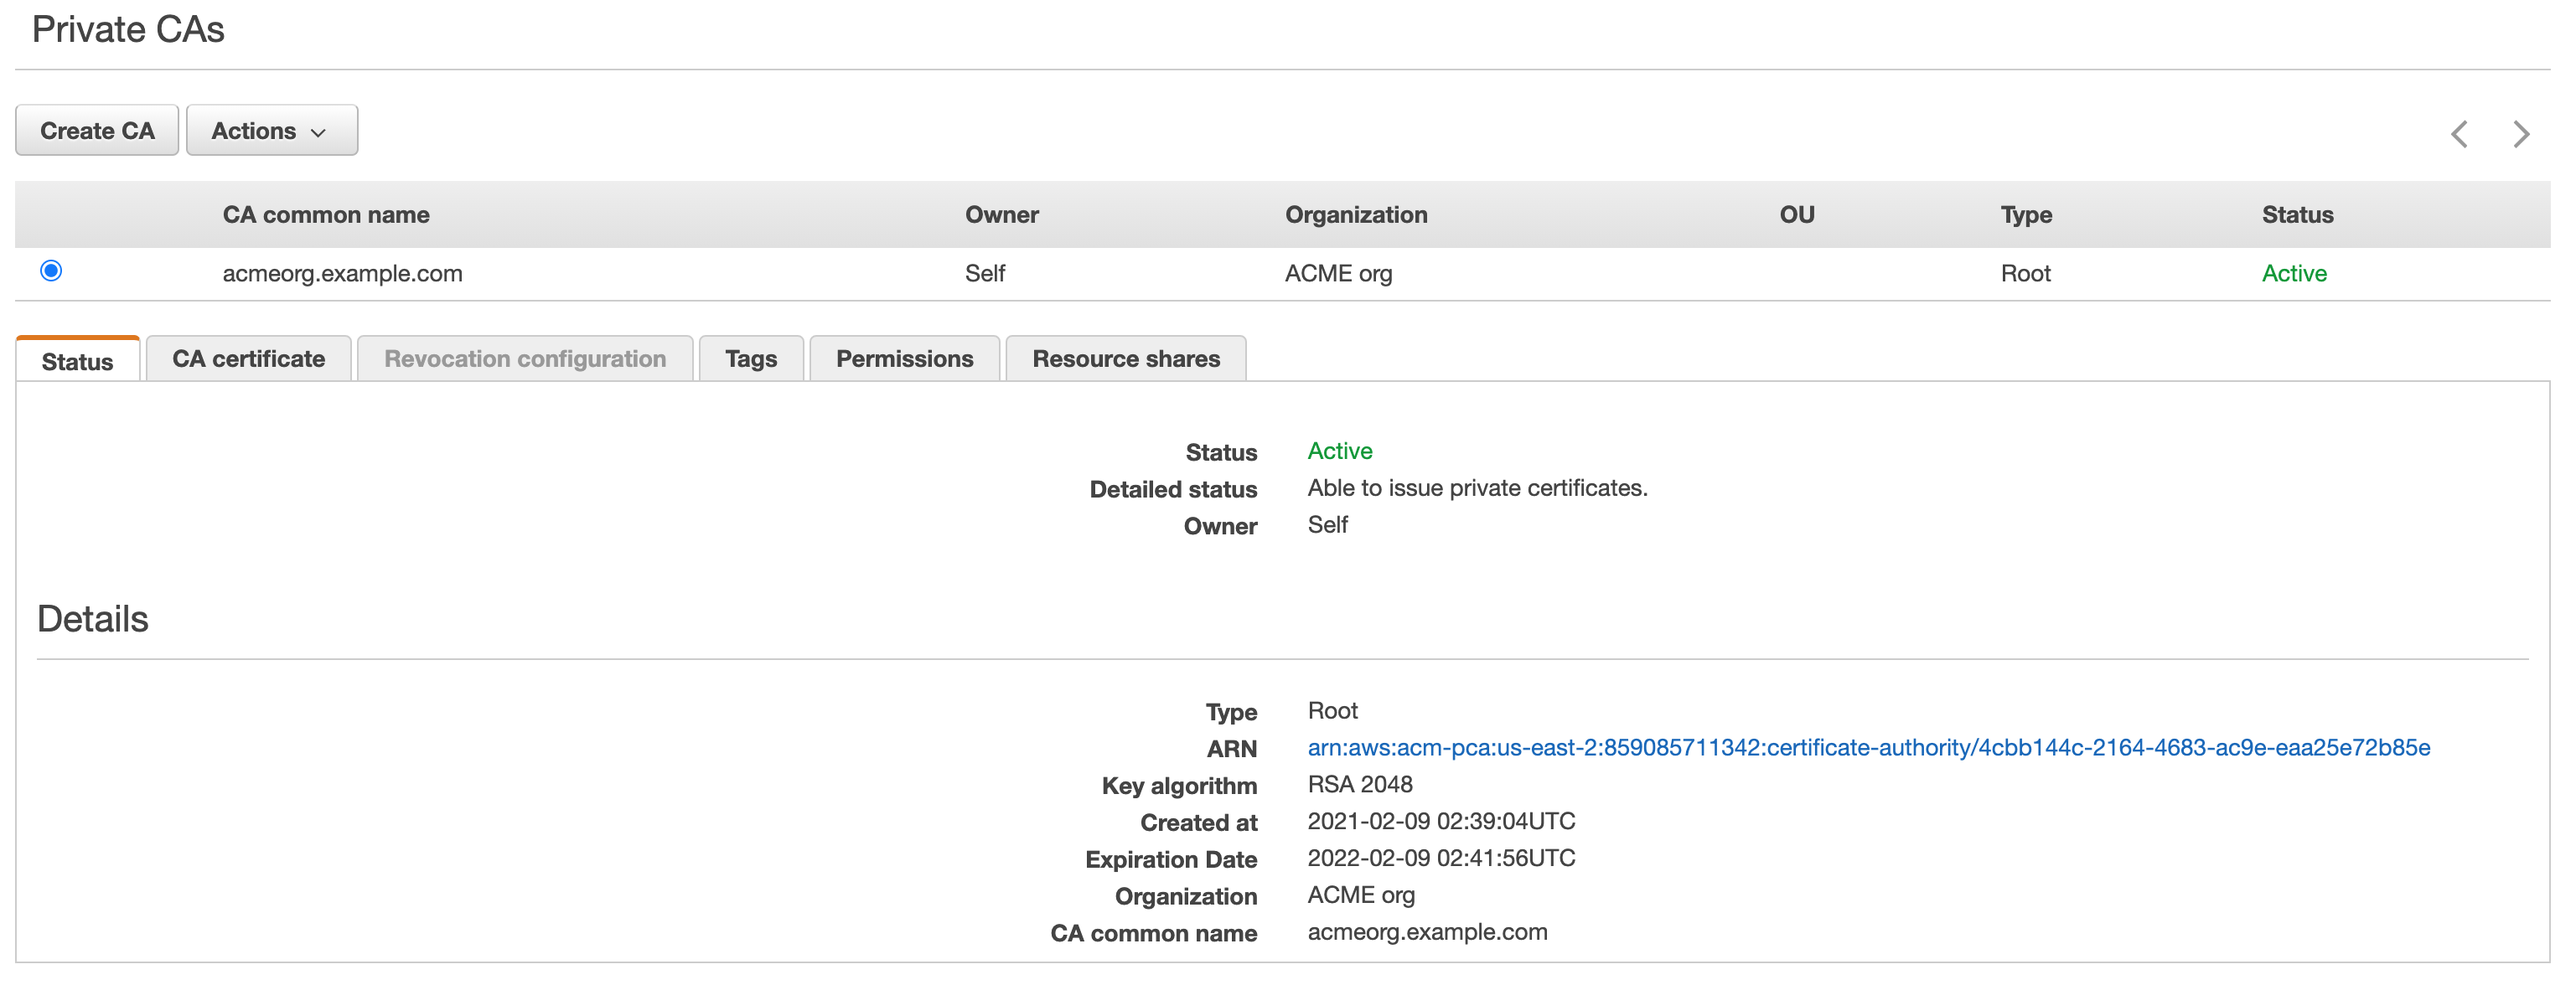
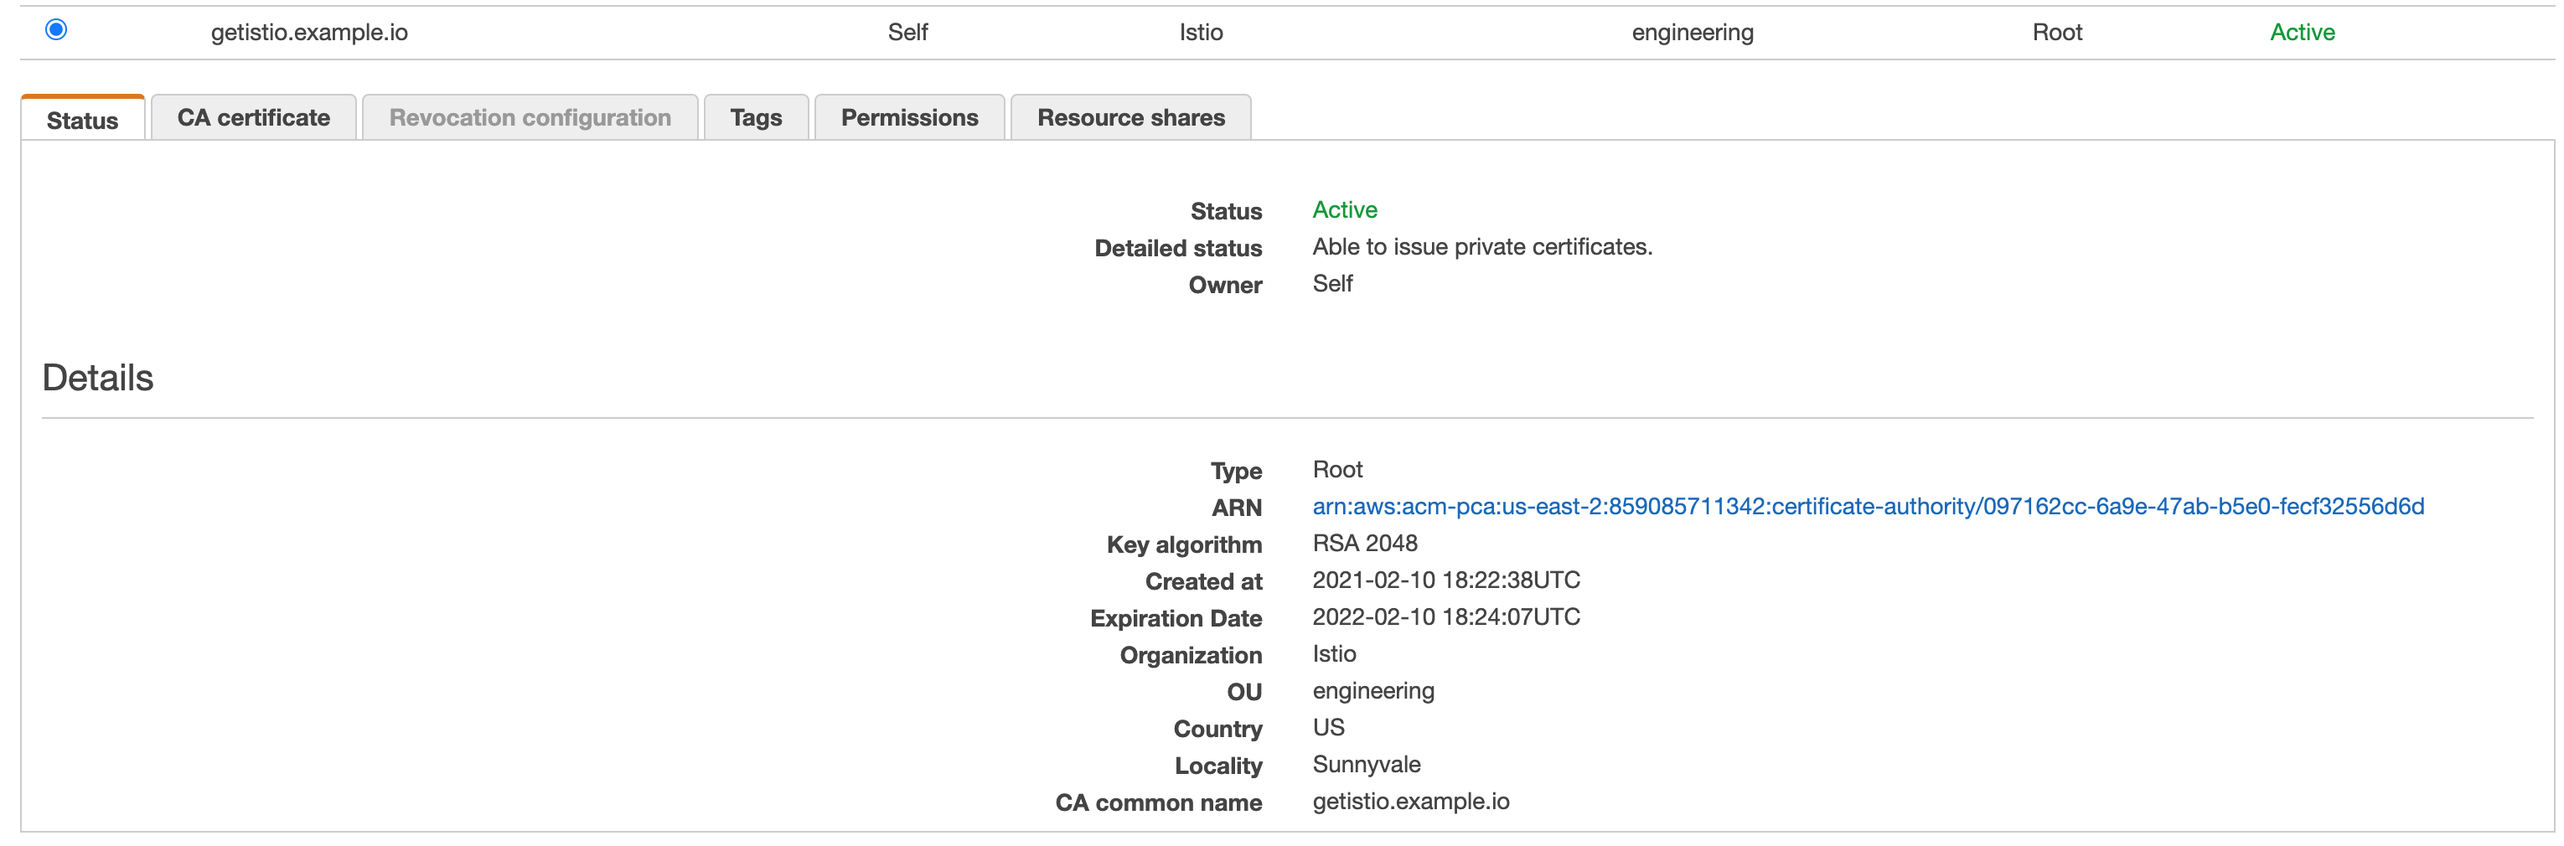
Simplify CA YAML, add CA setup into a collapsible section

diff --git a/content/en/istio-ca-certs-integrations/acmpca-integration/_index.md b/content/en/istio-ca-certs-integrations/acmpca-integration/_index.md
@@ -19,8 +19,10 @@ To follow this tutorial, you will need an AWS account and a Kubernetes cluster w
 - A CA set up in AWS ACM Private CA and the Amazon Resource Name (ARN) of the CA
 - AWS credentials with the `AWSCertificateManagerPrivateCAFullAccess` and `AWSCertificateManagerFullAccess` policy attached. Refer to the [Configuring  the AWS CLI](https://docs.aws.amazon.com/cli/latest/userguide/cli-chap-configure.html) documentation on how to set up the credentials.
 
-
 You can follow the [prerequisites](/istio-in-practice/prerequisites) for instructions on how to install and setup Istio.
+
+<details>
+<summary><strong>Click here, if you need to set up ACM Private CA</strong></summary>
 
 ### Setting up ACM Private CA
 
@@ -30,9 +32,11 @@ The first thing we need is to set up the ACM Private CA in AWS Console. Log in t
 1. Click **Get started** button under Private certificate authority.
 1. Select the **Root CA** on the certificate authority (CA) type step, and click **Next**.
 1. Configure the CA name (you can use your values here):
-    1. For **Organization (O)**, enter **ACME org**.
-    1. You can skip the Organization unit, Country name, State, and Locality name, as they are optional.
-    1. For **Common name (CN)**, enter **acmeorg.example.com**.
+    1. For **Organization (O)**, enter **Istio**.
+    1. For **Organization unit (OU)**, enter **engineering**.
+    1. For **Country name (C)**, select  **United States (US)**.
+    1. For **Locality name**, enter **Sunnyvale**.
+    1. For **CA Common name (CN)**, enter **getistio.example.io**.
     1. Click **Next**.
 1. Configure the CA key size and algorithm:
     1. Click **Advanced** to expand the options.
@@ -47,7 +51,8 @@ The first thing we need is to set up the ACM Private CA in AWS Console. Log in t
 Before ACM Private CA can start issuing certificates, you need to activate by installing a CA certificate. 
 
 1. From the "Private CAs" page, click the **Install a CA certificate to active your CA** link.
-1. Change the validity to **364 days**.
+1. Change the validity to **365 days**.
+1. Select **SHA256WITHRSA** from the Signature algorithm list.
 1. Click **Next**.
 1. Click the **Confirm and install** button to generate, and install the root CA certificate.
 
@@ -59,6 +64,8 @@ The figure below shows the Private CA page.  Note that yours might look differen
 
 Ensure you have AWS credentials set up with the `AWSCertificateManagerPrivateCAFullAccess` and `AWSCertificateManagerFullAccess` policy attached on a machine you're accessing the Kubernetes cluster from. Alternatively, if you installed GetIstio on AWS Cloud Shell, the credentials are already set up.
 
+</details>
+
 ## Creating ACM configuration
 
 We will use a YAML configuration to configure ACM Private CA. Use the YAML below as a template, and enter the ACM Private CA information from the AWS console:
@@ -67,42 +74,30 @@ We will use a YAML configuration to configure ACM Private CA. Use the YAML below
 providerName: "aws"
 providerConfig:
   aws:
-    # You can get the ARN value from the Details page of your private certificate authority 
-    signingCAArn: "arn:aws:acm-pca:us-east-2:859085711342:certificate-authority/4cbb144c-2164-4683-ac9e-eaa25e72b85e"
-    # template to use for the CSR.
+    # This will hold the ARN value from the Details page of ACM Private CA 
+    signingCAArn: "  arn:aws:acm-pca:us-east-2:859085711342:certificate-authority/097162cc-6a9e-47ab-b5e0-fecf32556d6d"
     templateArn: "arn:aws:acm-pca:::template/SubordinateCACertificate_PathLen0/V1"
-    # Optional field. If left blank would default to SHA256WITHRSA
     signingAlgorithm: SHA256WITHRSA
 certificateParameters:
   secretOptions:
-    # Namespace where 'cacerts' Kubernetes secret is created on your target cluster
-    istioCANamespace: "istio-system"
-    # SecretFilePath is the file path used to store the Kubernetes Secret in yaml format
-    secretFilePath:
-    # Force flag when enabled forcefully deletes the `cacerts` secret
-    # in istioNamespace, and creates a new one.
-    force: true
+    istioCANamespace: "istio-system" # namespace where `cacerts` secrets live
+    force: true # force delete the `cacerts` secret and replace it with this new one
   caOptions:
-    # ValidityDays represents the number of validity days before the CA expires.
-    # Replace with the value selected during CAS creation
-    validityDays: 364
-    # KeyLength is the length(bits) of Key to be created
-    keyLength: 2048
-    # This is x509.CertificateRequest. Only a few fields are shown below
-    certSigningRequestParams:
+    validityDays: 365 # validity days before the CA expires
+    keyLength: 2048 # length (bits) of Key to be created
+    certSigningRequestParams: # x509.CertificateRequest; most fields omitted
       subject:
-        commonname: "acmeorg.example.com"
+        commonname: "getistio.example.io"
+        country: 
+          - "US"
+        locality:
+          - "Sunnyvale"
         organization:
-          - "ACME org"
-        # You can also enter any optional fields if you defined them in CAS
-        # organizationunit:
-        #   - "engineering"
-        # country:
-        #   - "US"
-        # locality:
-        #   - "Sunnyvale"
+          - "Istio"
+        organizationunit:
+          - "engineering"
       emailaddresses:
-        - "hello@example.com"
+        - "youremail@example.io"
 ```
 
 Save the above file to `aws-acm-config.yaml` and use `gen-ca` command to create the `cacert`:
@@ -168,11 +163,11 @@ Certificate:
         Serial Number:
             94:d9:65:d0:b0:42:ac:31:70:f8:9f:84:02:6b:b1:d7:8d:2e:cb:c8
         Signature Algorithm: sha256WithRSAEncryption
-        Issuer: O = ACME org, CN = acmeorg.example.com
+        Issuer: C = US, L = Sunnyvale, O = Istio, OU = engineering, CN = getistio.example.io
         Validity
             Not Before: Feb  8 22:23:59 2021 GMT
             Not After : Jan 27 22:23:59 2031 GMT
-        Subject: O = ACME org, CN = acmeorg.example.com
+        Subject: C = US, L = Sunnyvale, O = Istio, OU = engineering, CN = getistio.example.io
         Subject Public Key Info:
             Public Key Algorithm: rsaEncryption
                 RSA Public-Key: (2048 bit)

diff --git a/content/en/istio-ca-certs-integrations/gcp-cas-integration/_index.md b/content/en/istio-ca-certs-integrations/gcp-cas-integration/_index.md
@@ -19,8 +19,10 @@ To follow this tutorial, you will need a Google Cloud Platform account and a Kub
 - A CA set up in GCP CAS
 - GCP credentials file and the environment variable `GOOGLE_APPLICATION_CREDENTIALS` pointed to the crednetials to get the CSR with CA set signed by the GCP CAS. Refer to the [Getting started with authentication](https://cloud.google.com/docs/authentication/getting-started) documentation on how to setup the GCP credentials.
 
-
 You can follow the [prerequisites](/istio-in-practice/prerequisites) for instructions on how to install and setup Istio.
+
+<details>
+<summary><strong>Click here, if you need to set up GCP CA</strong></summary>
 
 ### Setting up CAS
 
@@ -29,13 +31,18 @@ The first thing we need is to set up the CAS in Google Cloud Console. Log in to 
 1. From the navigation menu, select Security → Certificate Authority Service.
 1. Click the **Create CA** button.
 1. Configure the CA type:
+    1. Select **Root CA**.
+    1. Select **365 days** for validity.
+    1. Select the **Enterprise** tier**.
     1. Select the CAS's location from the **Location** list (e.g. `us-east1`).
     1. Click **Next**.
 1. Configure the CA subject name (you can use your values here):
-    1. For **Organization (O)**, enter **ACME org**.
-    1. You can skip the Organization unit, Country name, State, and Locality name, as they are optional.
-    1. For **CA Common name (CN)**, enter **acmeorg.example.com**.
-    1. For **Resource ID**, enter **acmeorg-example-com**.
+    1. For **Organization (O)**, enter **Istio**.
+    1. For **Organization unit (OU)**, enter **engineering**.
+    1. For **Country name (C)**, enter **US**.
+    1. For **Locality name**, enter **Sunnyvale**.
+    1. For **CA Common name (CN)**, enter **getistio.example.io**.
+    1. For **Resource ID**, enter **getistio-example-io**.
     1. Click **Next**.
 1. Configure the CA key size and algorithm:
     1. Select **RSA PKCS1 2048 (SHA 256)**.
@@ -49,6 +56,7 @@ The figure below shows the summary page. Note that your page might look differen
 ### Configure GCP credentials
 
 Ensure you have GCP credentials set up (e.g.`GOOGLE_APPLICATION_CREDENTIALS` environment variable has to point to the credentials) on a machine you're accessing the Kubernetes cluster from. Alternatively, if you installed GetIstio on Google Cloud Shell, the credentials are already set up.
+</details>
 
 ## Creating CAS configuration
 
@@ -58,40 +66,29 @@ We will use a YAML configuration to configure CAS and CSR creation. Use the YAML
 providerName: "gcp"
 providerConfig:
   gcp:
-    # Replace with the resource name of the certificate authority you created on GCP
-    # You can get the resource name by selecting the View option in the Actions menu on GCP
-    casCAName: "projects/tetrate-io-istio/locations/us-west1/certificateAuthorities/acmeorg-example-com"
+    # This will hold the full CA name for the certificate authority you created on GCP
+    casCAName: "projects/tetrate-io-istio/locations/us-west1/certificateAuthorities/getistio-example-com"
 
 certificateParameters:
   secretOptions:
-    # Namespace where 'cacerts' Kubernetes secret is created on your target cluster
-    istioCANamespace: "istio-system"
-    # SecretFilePath is the file path used to store the Kubernetes Secret in yaml format
-    secretFilePath:
-    # Force flag when enabled forcefully deletes the `cacerts` secret
-    # in istioNamespace, and creates a new one.
-    force: true
+    istioCANamespace: "istio-system" # namespace where `cacerts` secrets live
+    force: true # force delete the `cacerts` secret and replace it with this new one
   caOptions:
-    # ValidityDays represents the number of validity days before the CA expires.
-    # Replace with the value selected during CAS creation
-    validityDays: 3640
-    # KeyLength is the length(bits) of Key to be created
-    keyLength: 2048
-    # This is x509.CertificateRequest. Only a few fields are shown below
-    certSigningRequestParams:
+    validityDays: 365 # validity days before the CA expires
+    keyLength: 2048 # length (bits) of Key to be created
+    certSigningRequestParams: # x509.CertificateRequest; most fields omitted
       subject:
-        commonname: "acmeorg.example.com"
+        commonname: "getistio.example.io"
+        country: 
+          - "US"
+        locality:
+          - "Sunnyvale"
         organization:
-          - "ACME org"
-        # You can also enter any optional fields if you defined them in CAS
-        # organizationunit:
-        #   - "engineering"
-        # country:
-        #   - "US"
-        # locality:
-        #   - "Sunnyvale"
+          - "Istio"
+        organizationunit:
+          - "engineering"
       emailaddresses:
-        - "hello@example.com"
+        - "youremail@example.io"
 ```
 
 Save the above file to `gcp-cas-config.yaml` and use `gen-ca` command to create the `cacert`:
@@ -155,16 +152,16 @@ Certificate:
     Data:
         Version: 3 (0x2)
         Serial Number:
-            a6:fd:46:64:ce:8b:21:28:6f:4b:98:7c:1c:8e:dd:88
-    Signature Algorithm: sha256WithRSAEncryption
-        Issuer: O=ACME org, CN=acmeorg.example.com
+            55:7f:b3:00:f8:b2:24:50:dc:51:7c:e5:85:5a:14:7a:65:28:26:38
+        Signature Algorithm: sha256WithRSAEncryption
+        Issuer: C = US, L = Sunnyvale, O = Istio, OU = engineering, CN = getistio.example.io
         Validity
-            Not Before: Feb  9 01:41:56 2021 GMT
-            Not After : Feb  9 02:41:56 2022 GMT
-        Subject: O=ACME org, CN=acmeorg.example.com
+            Not Before: Feb 10 17:24:51 2021 GMT
+            Not After : Feb 10 17:24:51 2022 GMT
+        Subject: C = US, L = Sunnyvale, O = Istio, OU = engineering, CN = getistio.example.io
         Subject Public Key Info:
             Public Key Algorithm: rsaEncryption
-                Public-Key: (2048 bit)
+                RSA Public-Key: (2048 bit)
 ...
 ```
 
